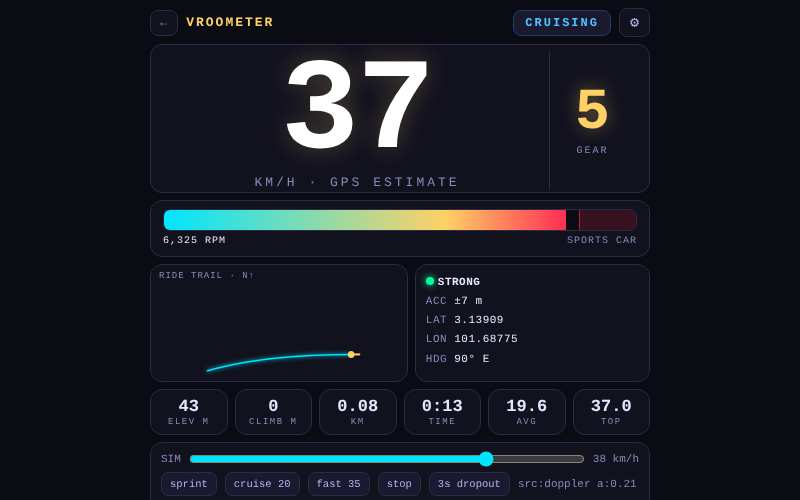
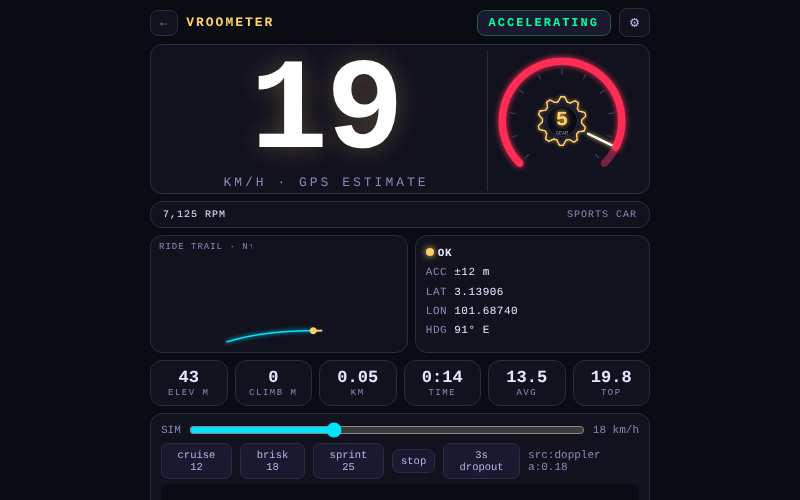
VROOMETER: cog tachometer gauge + bicycle-scale pacing
Two rider-feedback changes:

- The gear readout is now a gear: a 270-degree analog tachometer
  (needle, lit arc, tick marks, redline zone) with a spinning cog at
  its centre holding the gear digit. The cog's rotation and the needle
  are driven by the same RPM value the audio uses. Replaces the flat
  rev bar and plain digit; a visually-hidden #gearVal stays for
  accessibility and tests.
- Bicycles are not cars: default Top speed drops from 40 to 20 km/h
  (setting range now 15-60), so a casual 12 km/h already rides in
  gear 4 at ~6,100 RPM and 18 km/h screams in 5th. This answers the
  PRD's open question about a lower default for casual riders. Saved
  settings migrate (v2) so earlier testers get the new default.
- Dev-mode ride profiles rescaled (cruise 12 / brisk 18 / sprint 25)
  and the simulated rider now kicks off at 1.4 m/s^2 and settles
  exactly on target.
- Speed-filter tuning, per the PRD's "starting values to be tuned"
  note: the acceleration decay now engages only after 1.5 s without a
  fix - its stated purpose is guarding GPS gaps, but running it
  between ordinary 1 Hz fixes saw-toothed the acceleration estimate
  around the +-0.25 m/s^2 state thresholds and made the filter settle
  ~1.5 km/h low at steady speed.

Full suite re-run: 30/30 acceptance checks pass at the new defaults -
gear 4 at 12 km/h, gear 5 at 18, no hunting parked on the 11 km/h
boundary, steady-note hold, dropout ladder, tach canvas painted, and
[…]

diff --git a/tools/vroometer.html b/tools/vroometer.html
@@ -35,16 +35,13 @@
   #speedVal { font-size: clamp(84px, 28vw, 130px); font-weight: bold; line-height: 0.95; color: #fff; text-shadow: 0 0 24px rgba(255,209,102,0.25); letter-spacing: -2px; }
   #speedVal.stale { color: #4a4866; text-shadow: none; }
   #speedUnit { font-size: 13px; letter-spacing: 3px; color: #8d87bb; }
-  #gearWrap { width: 86px; display: flex; flex-direction: column; align-items: center; justify-content: center; border-left: 1px solid #2c2a44; }
-  #gearVal { font-size: 58px; font-weight: bold; color: #ffd166; line-height: 1; text-shadow: 0 0 18px rgba(255,209,102,0.4); }
-  #gearLbl { font-size: 10px; letter-spacing: 2px; color: #8d87bb; margin-top: 3px; }
+  #gearWrap { width: 148px; display: flex; align-items: center; justify-content: center; border-left: 1px solid #2c2a44; }
+  #tach { width: 140px; height: 140px; }
+  .sr { position: absolute; width: 1px; height: 1px; overflow: hidden; clip: rect(0 0 0 0); }
 
-  /* rev bar — priority 3 */
-  #revWrap { padding: 8px 12px 10px; }
-  #revTrack { position: relative; height: 22px; background: #0b0b14; border: 1px solid #2c2a44; border-radius: 7px; overflow: hidden; }
-  #revRed { position: absolute; top: 0; bottom: 0; right: 0; width: 12%; background: rgba(255,45,85,0.18); border-left: 1px solid rgba(255,45,85,0.6); }
-  #revFill { position: absolute; top: 0; bottom: 0; left: 0; width: 0%; background: linear-gradient(90deg, #00e5ff, #ffd166 70%, #ff2d55); transition: none; }
-  #revInfo { display: flex; justify-content: space-between; font-size: 10px; letter-spacing: 1px; color: #8d87bb; margin-top: 4px; }
+  /* rpm info strip (the tach gauge is the rev display) */
+  #revWrap { padding: 7px 12px; }
+  #revInfo { display: flex; justify-content: space-between; font-size: 10px; letter-spacing: 1px; color: #8d87bb; }
   #rpmVal { color: #e8e6ff; }
 
   /* map + gps — priority 5+7 */
@@ -161,13 +158,12 @@
       <div id="speedUnit">KM/H · GPS ESTIMATE</div>
     </div>
     <div id="gearWrap">
-      <div id="gearVal">N</div>
-      <div id="gearLbl">GEAR</div>
+      <canvas id="tach" width="300" height="300"></canvas>
+      <span id="gearVal" class="sr">N</span>
     </div>
   </div>
 
   <div id="revWrap" class="panel">
-    <div id="revTrack"><div id="revRed"></div><div id="revFill"></div></div>
     <div id="revInfo"><span id="rpmVal">0 RPM</span><span id="presetLbl">SPORTS CAR</span></div>
   </div>
 
@@ -197,8 +193,8 @@
   <div id="dev" class="panel">
     <div class="drow"><span>SIM</span><input type="range" id="simSlider" min="0" max="50" value="0" step="0.5"><span id="simVal">0 km/h</span></div>
     <div class="drow">
-      <button data-prof="sprint">sprint</button><button data-prof="cruise">cruise 20</button>
-      <button data-prof="hill">fast 35</button><button data-prof="stop">stop</button>
+      <button data-prof="cruise">cruise 12</button><button data-prof="hill">brisk 18</button>
+      <button data-prof="sprint">sprint 25</button><button data-prof="stop">stop</button>
       <button data-prof="dropout">3s dropout</button>
       <span id="devInfo"></span>
     </div>
@@ -251,7 +247,7 @@
   <h2>⚙ SETTINGS</h2>
   <div class="srow"><span class="k">Pitch<small>offsets the whole rev range</small></span><input type="range" id="sPitch" min="-30" max="30" value="0"><span class="val" id="sPitchV">0%</span></div>
   <div class="srow"><span class="k">Roughness<small>drive, jitter and exhaust rasp</small></span><input type="range" id="sRough" min="0" max="100" value="50"><span class="val" id="sRoughV">50%</span></div>
-  <div class="srow"><span class="k">Top speed<small>speed that hits the top of the revs</small></span><input type="range" id="sTop" min="25" max="60" value="40"><span class="val" id="sTopV">40</span></div>
+  <div class="srow"><span class="k">Top speed<small>speed that hits the top of the revs</small></span><input type="range" id="sTop" min="15" max="60" value="20"><span class="val" id="sTopV">40</span></div>
   <div class="srow"><span class="k">Gear shifts<small>virtual gearbox + shift sounds</small></span><button class="tgl on" id="sGears"></button></div>
   <div class="srow"><span class="k">Exhaust pops<small>crackle when slowing down</small></span><button class="tgl on" id="sPops"></button></div>
   <div class="srow"><span class="k">Quiet mode<small>caps volume at 40% for shared paths</small></span><button class="tgl" id="sQuiet"></button></div>
@@ -311,9 +307,10 @@ const PRESETS = {
 //  Settings — PRD §2 table, persisted in localStorage
 // ================================================================
 const S = Object.assign({
-  preset: 'sportscar', volume: 80, pitch: 0, rough: 50, topSpeed: 40,
-  gears: true, pops: true, quiet: false,
+  preset: 'sportscar', volume: 80, pitch: 0, rough: 50, topSpeed: 20,
+  gears: true, pops: true, quiet: false, v: 2,
 }, (() => { try { return JSON.parse(localStorage.getItem(SLUG) || '{}').settings || {}; } catch (e) { return {}; } })());
+if (S.v !== 2) { S.topSpeed = 20; S.v = 2; }   // bikes: 12 km/h should already sound fast
 function saveAll() {
   try {
     localStorage.setItem(SLUG, JSON.stringify({ settings: S, trip: trip.save(), t: Date.now() }));
@@ -370,7 +367,7 @@ const filter = {
       if (f >= 1) this.blend = null;
     } else if (age <= 3 || this.lastFixTime === 0) {
       this.v = Math.max(0, this.v + this.a * dt);
-      this.a *= Math.exp(-dt / 1.2);
+      if (age > 1.5) this.a *= Math.exp(-dt / 1.2);   // decay guards GPS gaps, not normal 1 Hz cadence
     } else if (age <= 10) {
       this.a = 0;                                   // hold last speed, state cruising
     } else {
@@ -844,9 +841,9 @@ if (DEV) {
   slider.addEventListener('input', () => { dev.target = +slider.value; document.getElementById('simVal').textContent = slider.value + ' km/h'; });
   document.querySelectorAll('#dev button').forEach(b => b.addEventListener('click', () => {
     const p = b.dataset.prof;
-    if (p === 'sprint') dev.target = 32;
-    else if (p === 'cruise') dev.target = 20;
-    else if (p === 'hill') dev.target = 35;
+    if (p === 'sprint') dev.target = 25;
+    else if (p === 'cruise') dev.target = 12;
+    else if (p === 'hill') dev.target = 18;
     else if (p === 'stop') dev.target = 0;
     else if (p === 'dropout') dev.dropout = 3;
     slider.value = dev.target;
@@ -854,10 +851,11 @@ if (DEV) {
   }));
 }
 function devTick(dt) {
-  // simulated bicycle: ease toward target with bicycle-ish accel limits
+  // simulated bicycle: decisive kick-off, brake harder, settle exactly on target
   const tgt = dev.target / KMH;
-  const maxA = 1.1, diff = tgt - dev.v;
-  dev.v += Math.max(-1.6 * dt, Math.min(maxA * dt, diff * dt * 0.9));
+  const diff = tgt - dev.v;
+  if (Math.abs(diff) < 0.12) dev.v = tgt;
+  else dev.v += Math.max(-1.8, Math.min(1.4, diff * 1.2)) * dt;
   dev.v = Math.max(0, dev.v);
   dev.fixTimer -= dt;
   if (dev.fixTimer <= 0) {
@@ -1011,10 +1009,10 @@ function frame(now) {
     const P = PRESETS[S.preset];
     if (drive.state === 'slow' && drive.load < -0.5 && drive.rpm > 0.45 * P.redlineRpm) audio.exhaustPops();
   }
-  // rev bar every frame — same value the audio uses
+  // tach gauge every frame — same RPM the audio uses
   const P = PRESETS[S.preset];
   const rn = Math.max(0, Math.min(1, (drive.rpm - 0) / (P.redlineRpm * 1.02)));
-  $('revFill').style.width = (rn * 100).toFixed(1) + '%';
+  drawTach(rn, dt);
   // text at ~8Hz (≥4Hz per PRD)
   uiT += dt;
   if (uiT >= 0.12) {
@@ -1060,6 +1058,81 @@ function frame(now) {
   if (saveT >= 5 && running) { saveT = 0; saveAll(); }
 }
 requestAnimationFrame(frame);
+
+// ================================================================
+//  Tachometer gauge — needle arc + a rotating cog holding the gear
+// ================================================================
+let cogAngle = 0;
+function drawTach(rn, dt) {
+  const cv = $('tach'), x = cv.getContext('2d');
+  const W = 300, cx = 150, cy = 150;
+  x.clearRect(0, 0, W, W);
+  const a0 = Math.PI * 0.75, sweep = Math.PI * 1.5;          // 270° dial
+  const R = 128;
+  // dial track
+  x.lineWidth = 16; x.lineCap = 'round';
+  x.strokeStyle = '#1d1b30';
+  x.beginPath(); x.arc(cx, cy, R, a0, a0 + sweep); x.stroke();
+  // redline zone (last 12%)
+  x.strokeStyle = 'rgba(255,45,85,0.4)';
+  x.beginPath(); x.arc(cx, cy, R, a0 + sweep * 0.88, a0 + sweep); x.stroke();
+  // lit arc up to needle
+  if (rn > 0.005) {
+    const g = x.createConicGradient ? null : null;
+    x.strokeStyle = rn > 0.88 ? '#ff2d55' : rn > 0.6 ? '#ffd166' : '#00e5ff';
+    x.shadowColor = x.strokeStyle; x.shadowBlur = 14;
+    x.beginPath(); x.arc(cx, cy, R, a0, a0 + sweep * rn); x.stroke();
+    x.shadowBlur = 0;
+  }
+  // ticks
+  x.lineWidth = 3; x.strokeStyle = '#3a3758';
+  for (let i = 0; i <= 10; i++) {
+    const a = a0 + sweep * i / 10;
+    x.beginPath();
+    x.moveTo(cx + Math.cos(a) * (R - 16), cy + Math.sin(a) * (R - 16));
+    x.lineTo(cx + Math.cos(a) * (R - 26), cy + Math.sin(a) * (R - 26));
+    x.stroke();
+  }
+  // needle
+  const na = a0 + sweep * rn;
+  x.strokeStyle = '#fff'; x.lineWidth = 5; x.lineCap = 'round';
+  x.shadowColor = '#ffd166'; x.shadowBlur = 10;
+  x.beginPath();
+  x.moveTo(cx + Math.cos(na) * 62, cy + Math.sin(na) * 62);
+  x.lineTo(cx + Math.cos(na) * (R - 10), cy + Math.sin(na) * (R - 10));
+  x.stroke();
+  x.shadowBlur = 0;
+  // the cog — spins with the engine
+  cogAngle += (drive.rpm / 6000) * dt * 6.283;
+  const teeth = 10, r1 = 52, r2 = 42;
+  x.save();
+  x.translate(cx, cy); x.rotate(cogAngle);
+  x.beginPath();
+  for (let i = 0; i < teeth * 4; i++) {
+    const seg = i / (teeth * 4) * 6.28318;
+    const r = (i % 4 < 2) ? r1 : r2;
+    x.lineTo(Math.cos(seg) * r, Math.sin(seg) * r);
+  }
+  x.closePath();
+  x.fillStyle = '#16152a';
+  x.strokeStyle = '#ffd166'; x.lineWidth = 3;
+  x.shadowColor = 'rgba(255,209,102,0.5)'; x.shadowBlur = 8;
+  x.fill(); x.stroke();
+  x.shadowBlur = 0;
+  x.beginPath(); x.arc(0, 0, 33, 0, 6.29);
+  x.fillStyle = '#0b0b14'; x.fill();
+  x.strokeStyle = '#2c2a44'; x.lineWidth = 2; x.stroke();
+  x.restore();
+  // gear digit (upright)
+  const gearTxt = drive.gear === 0 ? 'N' : String(drive.gear);
+  x.fillStyle = '#ffd166'; x.textAlign = 'center'; x.textBaseline = 'middle';
+  x.font = 'bold 44px Courier New';
+  x.shadowColor = '#ffd166'; x.shadowBlur = 12;
+  x.fillText(gearTxt, cx, cy - 2);
+  x.shadowBlur = 0;
+  x.fillStyle = '#8d87bb'; x.font = '11px Courier New';
+  x.fillText('GEAR', cx, cy + 26);
+}
 
 // debug handle for tests + dev graphs
 window.__VR = {
